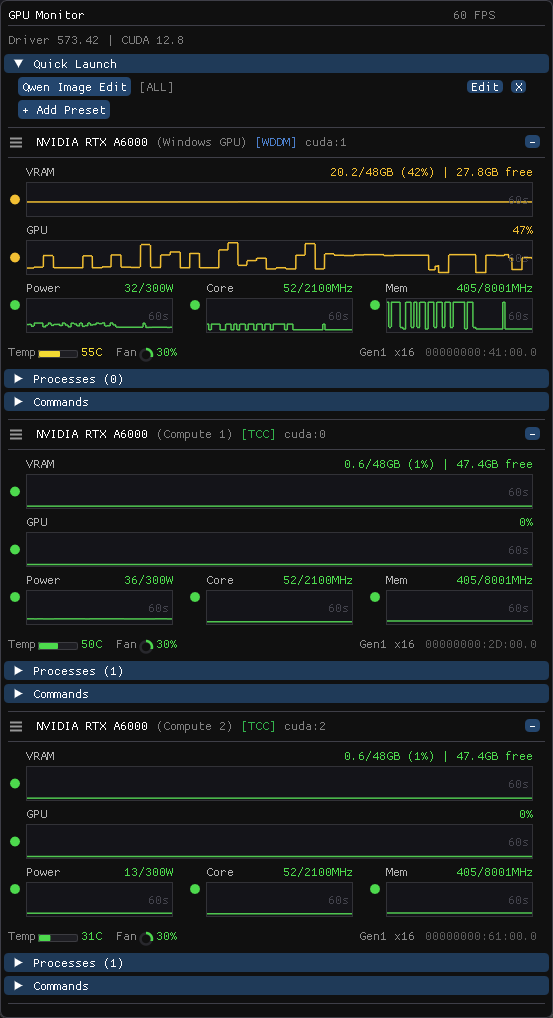
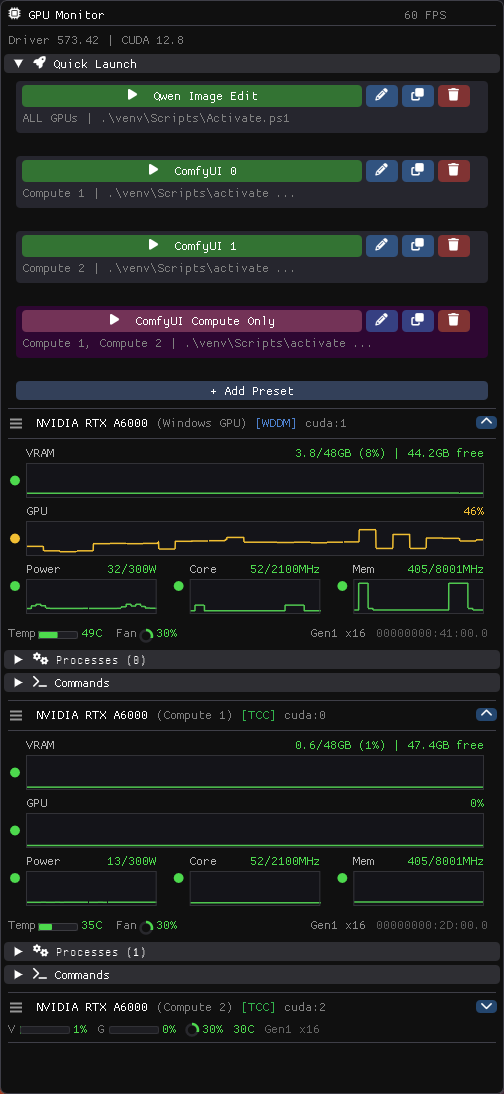
Add custom colors for Quick Launch presets
- Button and card background color pickers in edit popup
  - Colors persist to settings file
  - Reset to default option for each color
  - Fix sscanf warning by using std::istringstream
  - Clamp hover/active color values to 0-1 range

diff --git a/src/ui.cpp b/src/ui.cpp
@@ -6,6 +6,7 @@
 #include <ranges>
 #include <cstdio>
 #include <fstream>
+#include <sstream>
 #include <filesystem>
 
 namespace fs = std::filesystem;
@@ -255,6 +256,27 @@ void GpuMonitorUI::loadSettings() {
                     if (start != std::string::npos && end != std::string::npos) {
                         currentPreset->selectedGpuUuids = line.substr(start, end - start);
                     }
+                } else if ((pos = line.find("\"buttonColor\":")) != std::string::npos) {
+                    size_t start = line.find("[", pos);
+                    if (start != std::string::npos) {
+                        // Parse [r, g, b] format using stringstream
+                        std::string colorStr = line.substr(start + 1);
+                        std::istringstream iss(colorStr);
+                        char comma;
+                        iss >> currentPreset->buttonColor[0] >> comma
+                            >> currentPreset->buttonColor[1] >> comma
+                            >> currentPreset->buttonColor[2];
+                    }
+                } else if ((pos = line.find("\"cardColor\":")) != std::string::npos) {
+                    size_t start = line.find("[", pos);
+                    if (start != std::string::npos) {
+                        std::string colorStr = line.substr(start + 1);
+                        std::istringstream iss(colorStr);
+                        char comma;
+                        iss >> currentPreset->cardColor[0] >> comma
+                            >> currentPreset->cardColor[1] >> comma
+                            >> currentPreset->cardColor[2];
+                    }
                 }
             }
         }
@@ -320,7 +342,9 @@ void GpuMonitorUI::saveSettings() {
         file << "      \"name\": \"" << escapeJson(preset.name) << "\",\n";
         file << "      \"command\": \"" << escapeJson(preset.command) << "\",\n";
         file << "      \"workingDir\": \"" << escapeJson(preset.workingDir) << "\",\n";
-        file << "      \"selectedGpuUuids\": \"" << preset.selectedGpuUuids << "\"\n";
+        file << "      \"selectedGpuUuids\": \"" << preset.selectedGpuUuids << "\",\n";
+        file << "      \"buttonColor\": [" << preset.buttonColor[0] << ", " << preset.buttonColor[1] << ", " << preset.buttonColor[2] << "],\n";
+        file << "      \"cardColor\": [" << preset.cardColor[0] << ", " << preset.cardColor[1] << ", " << preset.cardColor[2] << "]\n";
         file << "    }" << (i < m_settings.presets.size() - 1 ? "," : "") << "\n";
     }
     file << "  ],\n";
@@ -917,14 +941,17 @@ void GpuMonitorUI::renderQuickLaunch(const std::vector<GpuStats>& gpuStats) {
                 }
             }
 
-            // Card background
+            // Card background (use custom color if set, otherwise default)
             ImVec2 cardStart = ImGui::GetCursorScreenPos();
             float cardHeight = 52.0f;
             ImDrawList* drawList = ImGui::GetWindowDrawList();
+            ImVec4 cardBgColor = (preset.cardColor[0] >= 0)
+                ? ImVec4(preset.cardColor[0], preset.cardColor[1], preset.cardColor[2], 1.0f)
+                : ImVec4(0.15f, 0.15f, 0.18f, 1.0f);
             drawList->AddRectFilled(
                 cardStart,
                 ImVec2(cardStart.x + availWidth - 8, cardStart.y + cardHeight),
-                ImGui::GetColorU32(ImVec4(0.15f, 0.15f, 0.18f, 1.0f)),
+                ImGui::GetColorU32(cardBgColor),
                 4.0f);
 
             ImGui::BeginGroup();
@@ -937,10 +964,16 @@ void GpuMonitorUI::renderQuickLaunch(const std::vector<GpuStats>& gpuStats) {
             float actionButtonsWidth = smallBtnWidth * 3 + buttonSpacing * 3 + 12;  // 3 buttons + spacing + padding
             float launchBtnWidth = availWidth - actionButtonsWidth - 20;
 
-            // Launch button (prominent, colored)
-            ImGui::PushStyleColor(ImGuiCol_Button, ImVec4(0.2f, 0.45f, 0.2f, 1.0f));
-            ImGui::PushStyleColor(ImGuiCol_ButtonHovered, ImVec4(0.25f, 0.55f, 0.25f, 1.0f));
-            ImGui::PushStyleColor(ImGuiCol_ButtonActive, ImVec4(0.15f, 0.35f, 0.15f, 1.0f));
+            // Launch button (use custom color if set, otherwise default green)
+            ImVec4 btnColor = (preset.buttonColor[0] >= 0)
+                ? ImVec4(preset.buttonColor[0], preset.buttonColor[1], preset.buttonColor[2], 1.0f)
+                : ImVec4(0.2f, 0.45f, 0.2f, 1.0f);
+            auto clamp01 = [](float v) { return v < 0.0f ? 0.0f : (v > 1.0f ? 1.0f : v); };
+            ImVec4 btnHover = ImVec4(clamp01(btnColor.x + 0.05f), clamp01(btnColor.y + 0.1f), clamp01(btnColor.z + 0.05f), 1.0f);
+            ImVec4 btnActive = ImVec4(clamp01(btnColor.x - 0.05f), clamp01(btnColor.y - 0.1f), clamp01(btnColor.z - 0.05f), 1.0f);
+            ImGui::PushStyleColor(ImGuiCol_Button, btnColor);
+            ImGui::PushStyleColor(ImGuiCol_ButtonHovered, btnHover);
+            ImGui::PushStyleColor(ImGuiCol_ButtonActive, btnActive);
             std::string launchLabel = std::string(ICON_FA_PLAY "  ") + (!preset.name.empty() ? preset.name : "Unnamed");
             if (ImGui::Button(launchLabel.c_str(), ImVec2(launchBtnWidth, 22))) {
                 std::string gpuSel = buildGpuSelectionString(preset, gpuStats);
@@ -1046,6 +1079,49 @@ void GpuMonitorUI::renderQuickLaunch(const std::vector<GpuStats>& gpuStats) {
 #endif
                 InputTextMultilineWithHint("##command", commandHint,
                     preset.command, "One command per line");
+
+                ImGui::Spacing();
+                ImGui::Text(ICON_FA_PALETTE " Colors:");
+
+                // Button color picker with reset option
+                bool hasButtonColor = preset.buttonColor[0] >= 0;
+                float btnColorEdit[3] = {
+                    hasButtonColor ? preset.buttonColor[0] : 0.2f,
+                    hasButtonColor ? preset.buttonColor[1] : 0.45f,
+                    hasButtonColor ? preset.buttonColor[2] : 0.2f
+                };
+                if (ImGui::ColorEdit3("Button", btnColorEdit, ImGuiColorEditFlags_NoInputs)) {
+                    preset.buttonColor[0] = btnColorEdit[0];
+                    preset.buttonColor[1] = btnColorEdit[1];
+                    preset.buttonColor[2] = btnColorEdit[2];
+                }
+                if (hasButtonColor) {
+                    ImGui::SameLine();
+                    if (ImGui::SmallButton(ICON_FA_XMARK "##resetBtn")) {
+                        preset.buttonColor[0] = preset.buttonColor[1] = preset.buttonColor[2] = -1.0f;
+                    }
+                    if (ImGui::IsItemHovered()) ImGui::SetTooltip("Reset to default");
+                }
+
+                // Card color picker with reset option
+                bool hasCardColor = preset.cardColor[0] >= 0;
+                float cardColorEdit[3] = {
+                    hasCardColor ? preset.cardColor[0] : 0.15f,
+                    hasCardColor ? preset.cardColor[1] : 0.15f,
+                    hasCardColor ? preset.cardColor[2] : 0.18f
+                };
+                if (ImGui::ColorEdit3("Card", cardColorEdit, ImGuiColorEditFlags_NoInputs)) {
+                    preset.cardColor[0] = cardColorEdit[0];
+                    preset.cardColor[1] = cardColorEdit[1];
+                    preset.cardColor[2] = cardColorEdit[2];
+                }
+                if (hasCardColor) {
+                    ImGui::SameLine();
+                    if (ImGui::SmallButton(ICON_FA_XMARK "##resetCard")) {
+                        preset.cardColor[0] = preset.cardColor[1] = preset.cardColor[2] = -1.0f;
+                    }
+                    if (ImGui::IsItemHovered()) ImGui::SetTooltip("Reset to default");
+                }
 
                 ImGui::Spacing();
                 ImGui::Separator();

diff --git a/src/ui.h b/src/ui.h
@@ -34,6 +34,9 @@ struct QuickLaunchPreset {
     std::string workingDir;
     // GPU selection stored as comma-separated UUIDs (empty = all GPUs)
     std::string selectedGpuUuids;
+    // Custom colors (0-1 range, negative = use default)
+    float buttonColor[3] = {-1.0f, -1.0f, -1.0f};  // RGB for play button
+    float cardColor[3] = {-1.0f, -1.0f, -1.0f};    // RGB for card background
 };
 
 // Global settings

diff --git a/CHANGELOG.md b/CHANGELOG.md
@@ -17,30 +17,23 @@ and this project adheres to [Semantic Versioning](https://semver.org/spec/v2.0.0
   - Labels: GPU Monitor title, CUDA Device Selection, Quick Copy, Management
   - Warning indicators with triangle exclamation icon
 - Embedded font in executable (no external font file needed)
+- Multiline command input for Quick Launch presets
+  - Line numbers displayed in gutter
+  - Platform-specific normalization (PowerShell `;` / Bash `&&`)
+  - JSON escaping for persistence
 - Persistent collapse state for all UI sections
   - GPU cards remember expanded/collapsed state
   - Quick Launch section state persists
   - Per-GPU Processes and Commands sections persist
+- Card-style layout for Quick Launch presets
+- Duplicate button for presets
+- Custom colors for Quick Launch presets (button and card background)
 
 ### Changed
 
 - CollapsingHeader styling to subtle dark theme for visual consistency
-- Quick Launch preset buttons now use icons instead of text ("...", "++", "x")
+- Quick Launch preset buttons now use icons instead of text
 - All collapsible sections start collapsed by default
-
-## [0.1.1] - 2025-01-22
-
-### Added
-
-- Multiline command input for Quick Launch presets with line numbers
-- Platform-specific command normalization (PowerShell `;` / Bash `&&`)
-- Card-style layout for Quick Launch presets
-- Duplicate button for presets
-
-### Fixed
-
-- JSON escaping for multiline commands in settings persistence
-- Line number alignment with text in command input
 
 ## [0.1.0] - 2025-01-18
 
@@ -73,6 +66,5 @@ and this project adheres to [Semantic Versioning](https://semver.org/spec/v2.0.0
 - Dear ImGui-based UI (docking branch)
 
 [Unreleased]: https://github.com/yourusername/gpu_monitor/compare/v0.1.2...HEAD
-[0.1.2]: https://github.com/yourusername/gpu_monitor/compare/v0.1.1...v0.1.2
-[0.1.1]: https://github.com/yourusername/gpu_monitor/compare/v0.1.0...v0.1.1
+[0.1.2]: https://github.com/yourusername/gpu_monitor/compare/v0.1.0...v0.1.2
 [0.1.0]: https://github.com/yourusername/gpu_monitor/releases/tag/v0.1.0
